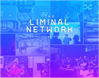
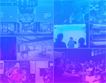
✨ update background image

diff --git a/pages/index.vue b/pages/index.vue
@@ -8,10 +8,14 @@
       </div>
       <div class='background-mobile'>
         <img src='~/assets/featured_mobile.png' alt='featured'>
-        <div class='page-text'>
-          <div class='page-title'><small>THE</small><br/>LIMINAL<br/>NETWORK</div>
-          <div class='page-subtitle'>DECENTRALIZED CREATIVE STUDIOS</div>
+      </div>
+      <div class='page-text'>
+        <div class='page-title'>
+          <div><small>THE</small></div>
+          <div>LIMINAL</div>
+          <div>NETWORK</div>
         </div>
+        <div class='page-subtitle'>DECENTRALIZED CREATIVE STUDIOS</div>
       </div>
 
     </section>
@@ -164,18 +168,20 @@ export default {
 }
 .page-text {
   position: absolute;
-  top: 28vh;
+  top: 18vh;
   width: 100%;
   font-family: arame-regular, sans-serif;
+  font-size: 20px;
   color: #fff;
   text-align: center;
   letter-spacing: 10px;
 }
 .page-title {
-  font-size: 16vw;
+  font-size: 100px;
+  letter-spacing: 14px;
 }
 .page-title small {
-  font-size: 7vw;
+  font-size: 40px;
 }
 .page-subtitle {
   margin-top: 20px;
@@ -381,6 +387,13 @@ export default {
 @media screen and (max-width: 767px) {
   .feature-grid {
     grid-template-columns: repeat(2, 1fr);
+  }
+  .page-title {
+    font-size: 16vw;
+    letter-spacing: 10px;
+  }
+  .page-title small {
+    font-size: 7vw;
   }
   .background-img {
     display: none;
